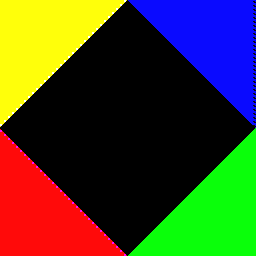
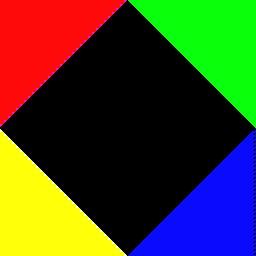
Attempt OSMesa OSMESA_Y_UP approach as suggested but Y-axis still flipped

diff --git a/src/rendering/CoinOffscreenGLCanvas.cpp b/src/rendering/CoinOffscreenGLCanvas.cpp
@@ -33,7 +33,6 @@
 #include "CoinOffscreenGLCanvas.h"
 
 #include <climits>
-#include <cstring>
 
 #include "glue/glp.h"
 #include <Inventor/errors/SoDebugError.h>
@@ -445,71 +444,28 @@ CoinOffscreenGLCanvas::readPixels(uint8_t * dst,
 
   assert((nrcomponents >= 1) && (nrcomponents <= 4));
 
-  unsigned char * readbuffer;
-  SbBool flip_needed = FALSE;
-
   if (nrcomponents < 3) {
-    readbuffer = new unsigned char[vpdims[0]*vpdims[1]*4];
+    unsigned char * tmp = new unsigned char[vpdims[0]*vpdims[1]*4];
     glReadPixels(0, 0, vpdims[0], vpdims[1],
-                 nrcomponents == 1 ? GL_RGB : GL_RGBA, GL_UNSIGNED_BYTE, readbuffer);
-    flip_needed = TRUE;
-  }
-  else {
-    // For RGB/RGBA, allocate temporary buffer for Y-flipping
-    readbuffer = new unsigned char[vpdims[0]*vpdims[1]*nrcomponents];
-    glReadPixels(0, 0, vpdims[0], vpdims[1],
-                 nrcomponents == 3 ? GL_RGB : GL_RGBA, GL_UNSIGNED_BYTE, readbuffer);
-    flip_needed = TRUE;
-  }
+                 nrcomponents == 1 ? GL_RGB : GL_RGBA, GL_UNSIGNED_BYTE, tmp);
 
-  // Flip Y-axis to convert from OpenGL (bottom-left) to image (top-left) coordinates
-  if (flip_needed) {
-    const int width = vpdims[0];
-    const int height = vpdims[1];
-    const int src_components = (nrcomponents < 3) ? ((nrcomponents == 1) ? 3 : 4) : nrcomponents;
-    const int row_size = width * src_components;
-    
-    if (nrcomponents < 3) {
-      // Convert to grayscale with Y-flipping
-      for (short y = 0; y < height; y++) {
-        // Read from bottom row of source (height - 1 - y)
-        const unsigned char * src_row = readbuffer + ((height - 1 - y) * width * src_components);
-        for (short x = 0; x < width; x++) {
-          double v = src_row[0] * 0.3 + src_row[1] * 0.59 + src_row[2] * 0.11;
-          *dst++ = (unsigned char) v;
-          if (nrcomponents == 2) {
-            *dst++ = src_row[3];
-          }
-          src_row += src_components;
+    const unsigned char * src = tmp;
+    // manually convert to grayscale
+    for (short y = 0; y < vpdims[1]; y++) {
+      for (short x = 0; x < vpdims[0]; x++) {
+        double v = src[0] * 0.3 + src[1] * 0.59 + src[2] * 0.11;
+        *dst++ = (unsigned char) v;
+        if (nrcomponents == 2) {
+          *dst++ = src[3];
         }
-      }
-    } else {
-      // RGB/RGBA with Y-flipping
-      for (short y = 0; y < height; y++) {
-        // Read from bottom row of source (height - 1 - y)  
-        const unsigned char * src_row = readbuffer + ((height - 1 - y) * row_size);
-        memcpy(dst + (y * row_size), src_row, row_size);
+        src += nrcomponents == 1 ? 3 : 4;
       }
     }
-    
-    delete[] readbuffer;
+    delete[] tmp;
   }
   else {
-    // This path should not be reached with current logic, but kept for safety
-    if (nrcomponents < 3) {
-      const unsigned char * src = readbuffer;
-      for (short y = 0; y < vpdims[1]; y++) {
-        for (short x = 0; x < vpdims[0]; x++) {
-          double v = src[0] * 0.3 + src[1] * 0.59 + src[2] * 0.11;
-          *dst++ = (unsigned char) v;
-          if (nrcomponents == 2) {
-            *dst++ = src[3];
-          }
-          src += nrcomponents == 1 ? 3 : 4;
-        }
-      }
-      delete[] readbuffer;
-    }
+    glReadPixels(0, 0, vpdims[0], vpdims[1],
+                 nrcomponents == 3 ? GL_RGB : GL_RGBA, GL_UNSIGNED_BYTE, dst);
   }
   glFlush(); glFinish();
 

diff --git a/test_osmesa_pixel_store.cpp b/test_osmesa_pixel_store.cpp
@@ -1,0 +1,58 @@
+/**
+ * Quick test to verify OSMesaPixelStore behavior
+ */
+#include <iostream>
+
+#ifdef __has_include
+  #if __has_include(<OSMesa/osmesa.h>)
+    #include <OSMesa/osmesa.h>
+    #include <OSMesa/gl.h>
+    #define HAVE_OSMESA
+  #endif
+#endif
+
+#ifdef HAVE_OSMESA
+int main() {
+    // Create a simple context
+    OSMesaContext ctx = OSMesaCreateContextExt(OSMESA_RGBA, 16, 0, 0, NULL);
+    if (!ctx) {
+        std::cout << "Failed to create OSMesa context" << std::endl;
+        return 1;
+    }
+    
+    unsigned char buffer[64*64*4];
+    if (!OSMesaMakeCurrent(ctx, buffer, GL_UNSIGNED_BYTE, 64, 64)) {
+        std::cout << "Failed to make context current" << std::endl;
+        return 1;
+    }
+    
+    // Check default Y_UP setting
+    GLint y_up_default;
+    OSMesaGetIntegerv(OSMESA_Y_UP, &y_up_default);
+    std::cout << "Default OSMESA_Y_UP: " << y_up_default << std::endl;
+    
+    // Set Y_UP to 0 (downward)
+    OSMesaPixelStore(OSMESA_Y_UP, 0);
+    
+    // Check if it was set
+    GLint y_up_after;
+    OSMesaGetIntegerv(OSMESA_Y_UP, &y_up_after);
+    std::cout << "After setting to 0, OSMESA_Y_UP: " << y_up_after << std::endl;
+    
+    // Set Y_UP to 1 (upward)
+    OSMesaPixelStore(OSMESA_Y_UP, 1);
+    
+    // Check if it was set
+    GLint y_up_final;
+    OSMesaGetIntegerv(OSMESA_Y_UP, &y_up_final);
+    std::cout << "After setting to 1, OSMESA_Y_UP: " << y_up_final << std::endl;
+    
+    OSMesaDestroyContext(ctx);
+    return 0;
+}
+#else
+int main() {
+    std::cout << "OSMesa not available" << std::endl;
+    return 1;
+}
+#endif

diff --git a/tests/test_scene_rendering.cpp b/tests/test_scene_rendering.cpp
@@ -104,6 +104,10 @@ struct OSMesaContextData {
         
         bool result = OSMesaMakeCurrent(context, buffer.get(), GL_UNSIGNED_BYTE, width, height);
         if (result) {
+            // Set Y axis to increase downward (like image coordinates) instead of upward (OpenGL default)
+            // This avoids the need to flip pixels during readback
+            OSMesaPixelStore(OSMESA_Y_UP, 0);
+            
             // Clear any GL errors that might have occurred during context creation
             // This prevents warnings in cc_glglue_instance() about context setup errors
             GLenum error;

diff --git a/tests/test_coordinate_debug.cpp b/tests/test_coordinate_debug.cpp
@@ -55,6 +55,10 @@ struct OSMesaContextData {
         
         bool result = OSMesaMakeCurrent(context, buffer.get(), GL_UNSIGNED_BYTE, width, height);
         if (result) {
+            // Set Y axis to increase downward (like image coordinates) instead of upward (OpenGL default)
+            // This avoids the need to flip pixels during readback
+            OSMesaPixelStore(OSMESA_Y_UP, 0);
+            
             GLenum error;
             while ((error = glGetError()) != GL_NO_ERROR) {}
             const char* extensions = (const char*)glGetString(GL_EXTENSIONS);

diff --git a/tests/test_simple_debug.cpp b/tests/test_simple_debug.cpp
@@ -56,6 +56,10 @@ struct OSMesaContextData {
         
         bool result = OSMesaMakeCurrent(context, buffer.get(), GL_UNSIGNED_BYTE, width, height);
         if (result) {
+            // Set Y axis to increase downward (like image coordinates) instead of upward (OpenGL default)
+            // This avoids the need to flip pixels during readback
+            OSMesaPixelStore(OSMESA_Y_UP, 0);
+            
             GLenum error;
             while ((error = glGetError()) != GL_NO_ERROR) {}
             const char* extensions = (const char*)glGetString(GL_EXTENSIONS);

diff --git a/tests/test_gradient_debug.cpp b/tests/test_gradient_debug.cpp
@@ -65,6 +65,10 @@ struct OSMesaContextData {
         
         bool result = OSMesaMakeCurrent(context, buffer.get(), GL_UNSIGNED_BYTE, width, height);
         if (result) {
+            // Set Y axis to increase downward (like image coordinates) instead of upward (OpenGL default)
+            // This avoids the need to flip pixels during readback
+            OSMesaPixelStore(OSMESA_Y_UP, 0);
+            
             GLenum error;
             while ((error = glGetError()) != GL_NO_ERROR) {
                 // Clear errors
